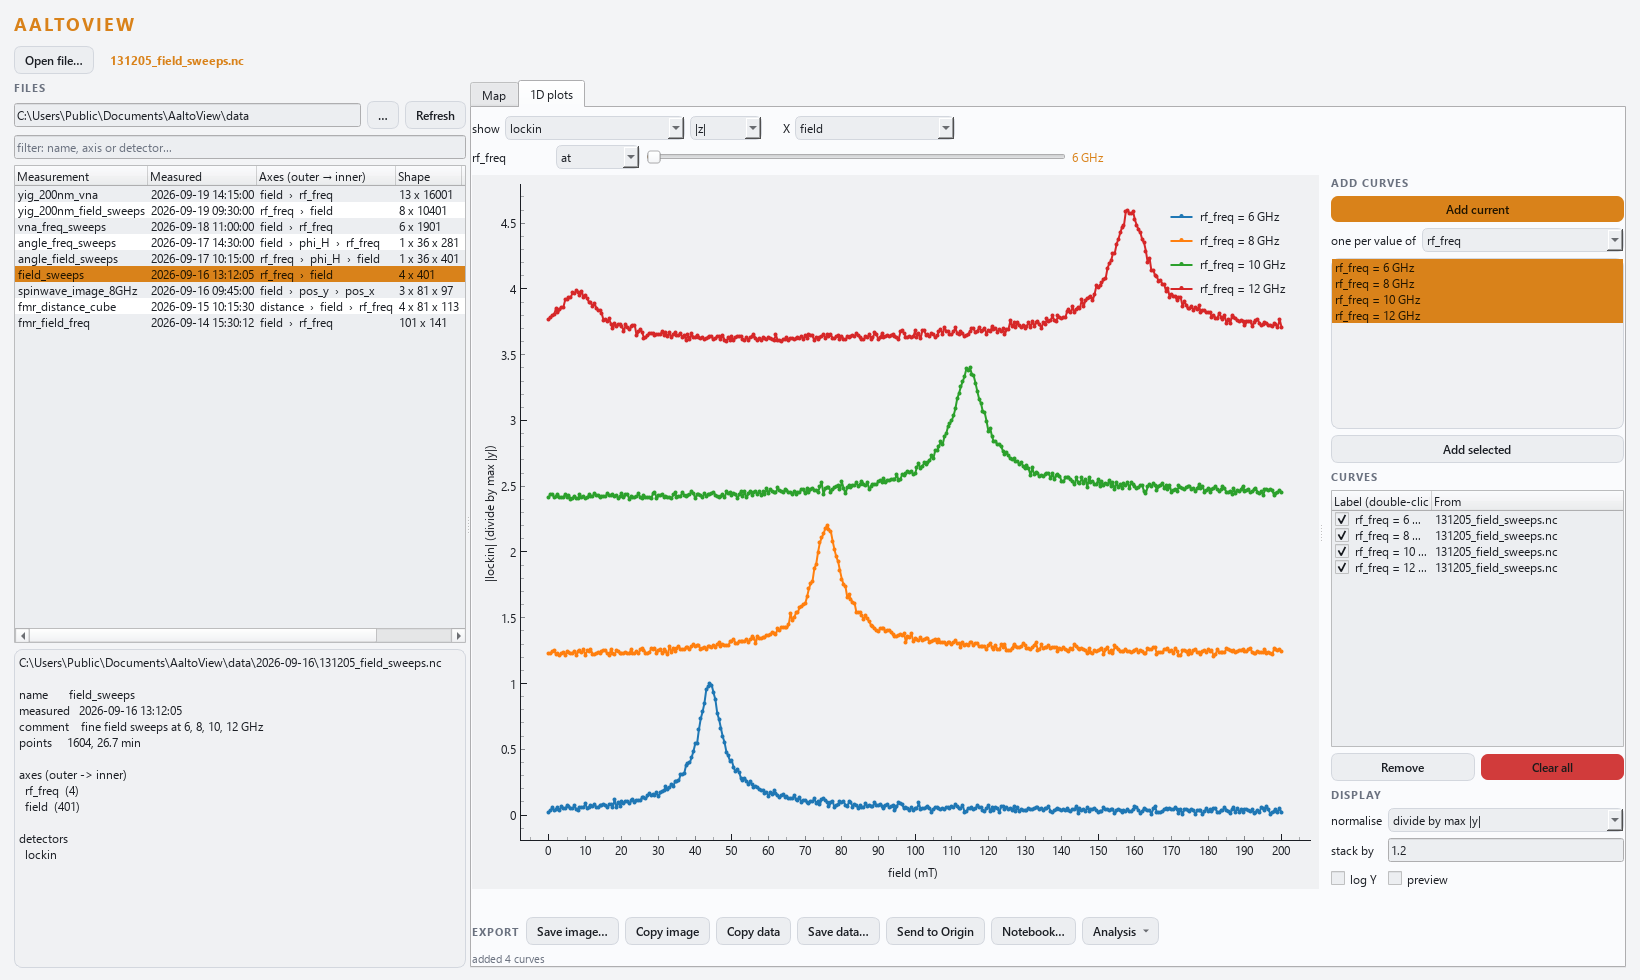
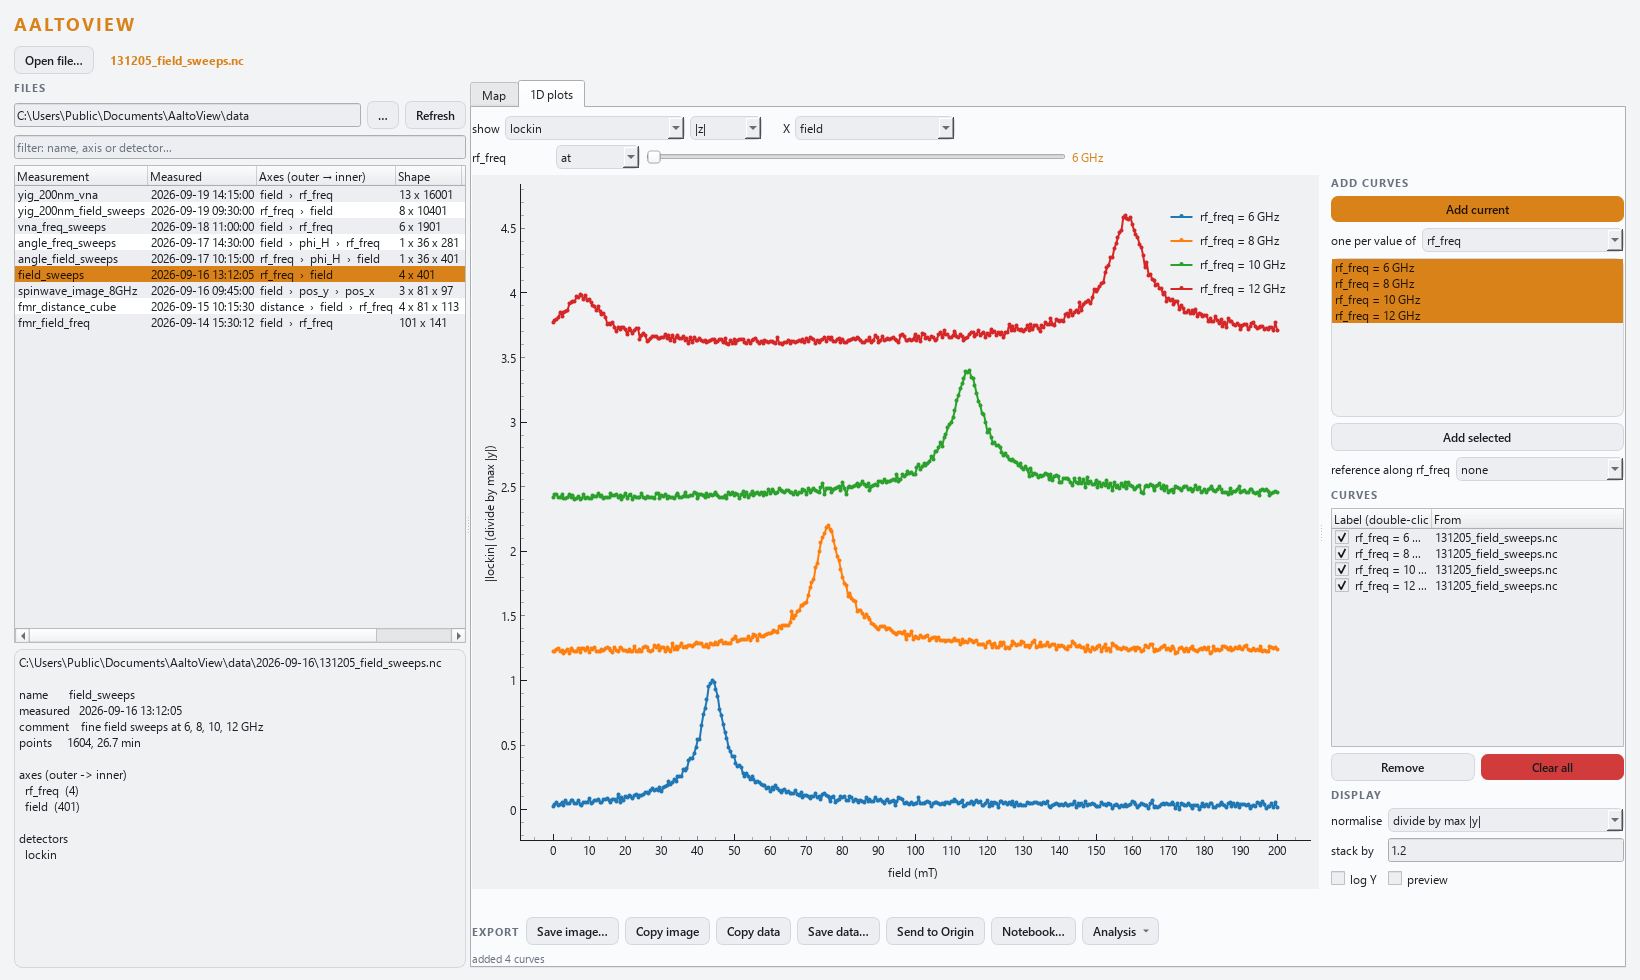
1D plots: reference along a dimension; the view fits the visible curves
The same reference as the map, along the 'one per value of' dim (curve at
one value / median / derivative-divide), for the preview and the curves
added. The plot refits to the visible curves when they change (pyqtgraph's
auto-range is lost at the first zoom), the preview counting only when there
are no curves.

diff --git a/src/aaltoview/apps/viewer.py b/src/aaltoview/apps/viewer.py
@@ -982,6 +982,7 @@ class LinePanel(_Panel):
                                                     style=QtCore.Qt.DashLine))
         self.plot.addItem(self.preview)
         self._items: list[pg.PlotDataItem] = []
+        self._range_key = None
         self.plot.scene().sigMouseMoved.connect(self._hover)
         split.addWidget(self.glw)
 
@@ -1011,6 +1012,36 @@ class LinePanel(_Panel):
         self.add_sel_btn = QtWidgets.QPushButton("Add selected")
         self.add_sel_btn.clicked.connect(self.add_selected)
         sv.addWidget(self.add_sel_btn)
+
+        rg = QtWidgets.QGridLayout()
+        self.ref_label = QtWidgets.QLabel("reference")
+        rg.addWidget(self.ref_label, 0, 0)
+        self.ref_combo = QtWidgets.QComboBox()
+        for key, text in (("none", "none"), ("row", "the curve at"),
+                          ("median_rows", "the median curve"),
+                          ("dd_y", "derivative-divide")):
+            self.ref_combo.addItem(text, key)
+        self.ref_combo.setToolTip(
+            "Against the SAME selection at another value of the 'one per value of'\n"
+            "dimension, on the complex values (before |z| or arg), as on the map:\n"
+            "  the curve at: ÷ (or −) the curve at the value chosen -- e.g. a VNA\n"
+            "    sweep ÷ the one at the highest field, resonance out of the band;\n"
+            "  the median curve: ÷ the median over all its values (no reference measured);\n"
+            "  derivative-divide: (z[k+1] − z[k−1]) / (Δ · z[k]) across its values.\n"
+            "Applies to the preview and to the curves ADDED from now on; the label says it.")
+        self.ref_combo.currentIndexChanged.connect(self._ref_changed)
+        rg.addWidget(self.ref_combo, 0, 1, 1, 2)
+        self.ref_value = QtWidgets.QComboBox()
+        self.ref_value.currentIndexChanged.connect(self.redraw)
+        rg.addWidget(self.ref_value, 1, 1)
+        self.ref_op = QtWidgets.QComboBox()
+        self.ref_op.addItem("divide", "divide")
+        self.ref_op.addItem("subtract", "subtract")
+        self.ref_op.currentIndexChanged.connect(self.redraw)
+        rg.addWidget(self.ref_op, 1, 2)
+        rg.setColumnStretch(1, 1)
+        sv.addLayout(rg)
+        self._ref_enable()
 
         tag2 = QtWidgets.QLabel("CURVES"); tag2.setObjectName("tag")
         sv.addWidget(tag2)
@@ -1094,7 +1125,9 @@ class LinePanel(_Panel):
         ds, d = self.host.ds, self.along_combo.currentText()
         if ds is None or not d:
             self.values.clear()
+            self.ref_value.clear()
             self.add_sel_btn.setEnabled(False)
+            self._ref_enable()
             return
         n = self.controls.current_da().sizes[d]
         texts = [f"{d} = {V.coord_text(ds, d, i)}" for i in range(n)]
@@ -1103,7 +1136,40 @@ class LinePanel(_Panel):
         if texts != [self.values.item(i).text() for i in range(self.values.count())]:
             self.values.clear()
             self.values.addItems(texts)
+            # the reference's values too; a new axis starts at its LAST value
+            # (the highest field of a sweep, the usual reference)
+            self.ref_value.blockSignals(True)
+            self.ref_value.clear()
+            self.ref_value.addItems([V.coord_text(ds, d, i) for i in range(n)])
+            self.ref_value.setCurrentIndex(n - 1)
+            self.ref_value.blockSignals(False)
         self.add_sel_btn.setEnabled(True)
+        self._ref_enable()
+
+    # ---- reference --------------------------------------------------------
+    def _ref_changed(self):
+        self._ref_enable()
+        self.redraw()
+
+    def _ref_enable(self):
+        mode = self.ref_combo.currentData()
+        has = bool(self.along_combo.currentText())
+        self.ref_combo.setEnabled(has)
+        self.ref_label.setText(f"reference along {self.along_combo.currentText()}"
+                               if has else "reference")
+        self.ref_value.setVisible(mode == "row")
+        self.ref_op.setVisible(mode in ("row", "median_rows"))
+
+    def selection(self) -> E.Selection | None:
+        """The controls' selection, with the reference when one is chosen."""
+        sel = self.controls.selection()
+        mode = self.ref_combo.currentData()
+        d = self.along_combo.currentText()
+        if sel is None or mode == "none" or not d:
+            return sel
+        sel.ref = {"x": sel.x, "y": d, "mode": mode, "op": self.ref_op.currentData(),
+                   "i": max(self.ref_value.currentIndex(), 0) if self.ref_value.count() else -1}
+        return sel
 
     # ---- curves -----------------------------------------------------------
     def add_curves(self, curves: list[E.Curve]):
@@ -1120,7 +1186,7 @@ class LinePanel(_Panel):
         self.redraw()
 
     def add_current(self):
-        sel = self.controls.selection()
+        sel = self.selection()
         if self.host.ds is None or sel is None:
             self.say("Open a measurement first.")
             return
@@ -1130,7 +1196,7 @@ class LinePanel(_Panel):
             self.say(f"added: {c.label}")
 
     def add_selected(self):
-        sel = self.controls.selection()
+        sel = self.selection()
         rows = sorted(self.values.row(it) for it in self.values.selectedItems())
         if self.host.ds is None or sel is None or not rows:
             self.say("Select one or more values in the list first.")
@@ -1179,7 +1245,7 @@ class LinePanel(_Panel):
 
         preview = None
         if self.show_preview.isChecked() and self.host.ds is not None:
-            sel = self.controls.selection()
+            sel = self.selection()
             if sel is not None:
                 try:
                     preview = E.make_curve(self.host.ds, sel, self.host.path)
@@ -1197,6 +1263,23 @@ class LinePanel(_Panel):
             self.plot.setLabel("bottom", xt)
             self.plot.setLabel("left", yt)
         self.plot.setLogMode(y=self.logy.isChecked())
+        self._fit_view(shown, preview is not None)
+
+    def _fit_view(self, shown, has_preview: bool):
+        """Fit the view to the VISIBLE curves when what is shown changes (a curve
+        added, hidden, removed; normalisation, stacking, log Y) -- not on every
+        redraw, so a zoom survives scrubbing the preview. The preview counts
+        only when there are no curves: a raw preview beside referenced curves
+        (0.7 vs 1.0) squashed them (2026-09-30). pyqtgraph's own auto-range is
+        switched off for good by the first zoom or pan, so it is done here."""
+        key = (tuple(id(c) for c in shown), self.norm(), self.offset(),
+               self.logy.isChecked())
+        if shown:
+            if key != self._range_key:
+                self.plot.autoRange(items=self._items)
+        elif has_preview:
+            self.plot.autoRange(items=[self.preview])
+        self._range_key = key
 
     def _hover(self, pos):
         if not self.plot.sceneBoundingRect().contains(pos):
@@ -1220,7 +1303,7 @@ class LinePanel(_Panel):
         shown = [c for c in self.curves if c.visible]
         if shown:
             return shown
-        sel = self.controls.selection()
+        sel = self.selection()
         if self.host.ds is not None and sel is not None:
             return [E.make_curve(self.host.ds, sel, self.host.path)]
         raise ValueError("no curves to send -- open a measurement first")

diff --git a/tests/test_viewer.py b/tests/test_viewer.py
@@ -16,7 +16,7 @@ pytest.importorskip("PySide6")
 pytest.importorskip("pyqtgraph")
 os.environ.setdefault("QT_QPA_PLATFORM", "offscreen")
 
-from PySide6 import QtWidgets  # noqa: E402
+from PySide6 import QtCore, QtWidgets  # noqa: E402
 
 
 def _cube() -> xr.Dataset:
@@ -254,3 +254,37 @@ def test_the_map_divided_by_a_reference_line(viewer):
     m.ref_combo.setCurrentIndex(m.ref_combo.findData("dd_x"))
     assert m.ref_op.isHidden() and m.ref_value.isHidden()
     assert m._map.z_unit == "1/GHz"
+
+
+def test_1d_curves_divided_by_the_curve_at_another_value(viewer):
+    """The 1D reference: the same selection at another value of the 'one per
+    value of' dim -- on the preview and on the curves added."""
+    _open_first(viewer)
+    lines = viewer.lines
+    lines.controls.x_combo.setCurrentText("freq")        # along freq, one per y
+    lines.along_combo.setCurrentText("y")
+    lines.ref_combo.setCurrentIndex(lines.ref_combo.findData("row"))
+    assert lines.ref_value.currentText() == "20 um"       # the last value
+    for i in range(lines.values.count()):
+        lines.values.item(i).setSelected(True)
+    lines.add_selected()
+    f = np.array([1.0, 2.0, 3.0, 4.0])
+    for c, yv in zip(lines.curves, (0.0, 10.0, 20.0)):
+        np.testing.assert_allclose(c.y, (f * 100 + yv) / (f * 100 + 20))   # x = 0 held
+    assert lines.curves[0].label.endswith("(÷ y = 20 um)")
+    np.testing.assert_allclose(lines.preview.yData, lines.curves[0].y)  # preview at y = 0
+
+
+def test_the_1d_view_fits_the_visible_curves(viewer):
+    """A curve on another scale added, then hidden: the view follows what is
+    visible, and the preview does not stretch it when curves are shown."""
+    _open_first(viewer)
+    lines = viewer.lines
+    lines.controls.x_combo.setCurrentText("freq")
+    lines.add_current()                                   # 100 ... 400 mdeg
+    lines.plot.vb.setRange(yRange=(-5000, 5000))          # the operator zoomed out
+    lines.ref_combo.setCurrentIndex(lines.ref_combo.findData("row"))
+    lines.add_current()                                   # ~0.8 ... 0.95
+    lines.table.topLevelItem(0).setCheckState(0, QtCore.Qt.Unchecked)
+    lo, hi = lines.plot.vb.viewRange()[1]
+    assert -0.5 < lo < 0.9 and 0.9 < hi < 1.5, (lo, hi)

diff --git a/src/aaltoview/export.py b/src/aaltoview/export.py
@@ -262,7 +262,11 @@ def ref_line(ds: xr.Dataset, sel: Selection) -> np.ndarray:
     ny, nx = red.data.shape
     zc = reference_values(red.data.values, style, coords_of(ds, msel.x, nx),
                           coords_of(ds, msel.y, ny))
-    k = sel.slices.get(held, Slice()).span(da.sizes[held])[0]
+    s = sel.slices.get(held, Slice())
+    if s.mode != "at":
+        raise ValueError(f"hold {held} at one value to reference along it "
+                         f"(it is averaged now)")
+    k = s.span(da.sizes[held])[0]
     return np.asarray(zc[k] if held == msel.y else zc[:, k])
 
 

diff --git a/README.md b/README.md
@@ -34,7 +34,10 @@ simulated data (see [Try it without lab data](#try-it-without-lab-data)).*
   pick a dimension, select several of its values and **Add selected** (one curve
   per value). Curves are frozen copies that remember their file, so curves from
   different measurements overlay. Normalise (peak, 0…1, first point, zero mean),
-  stack as a waterfall, log Y, rename, hide, remove.
+  stack as a waterfall, log Y, rename, hide, remove. **Reference along** the
+  "one per value of" dimension, as on the map: ÷ (or −) the curve at one value
+  (the highest field), ÷ the median curve, or derivative-divide -- for the
+  preview and the curves added. The view fits the visible curves.
 - **Export**, from both tabs:
   | | |
   |---|---|
